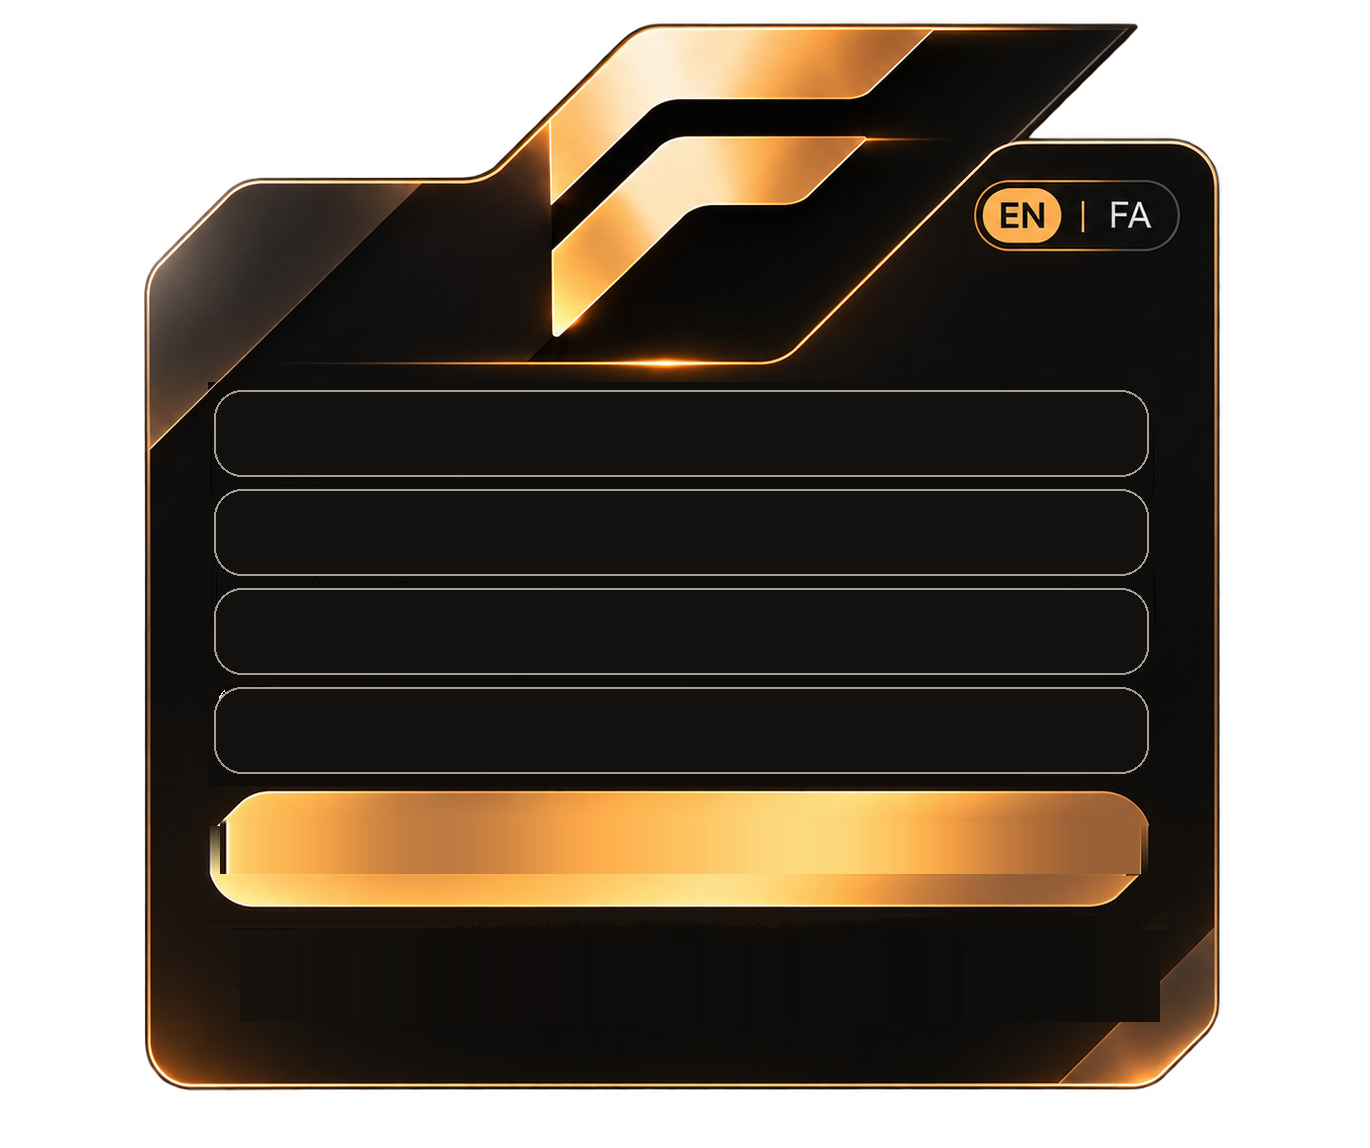
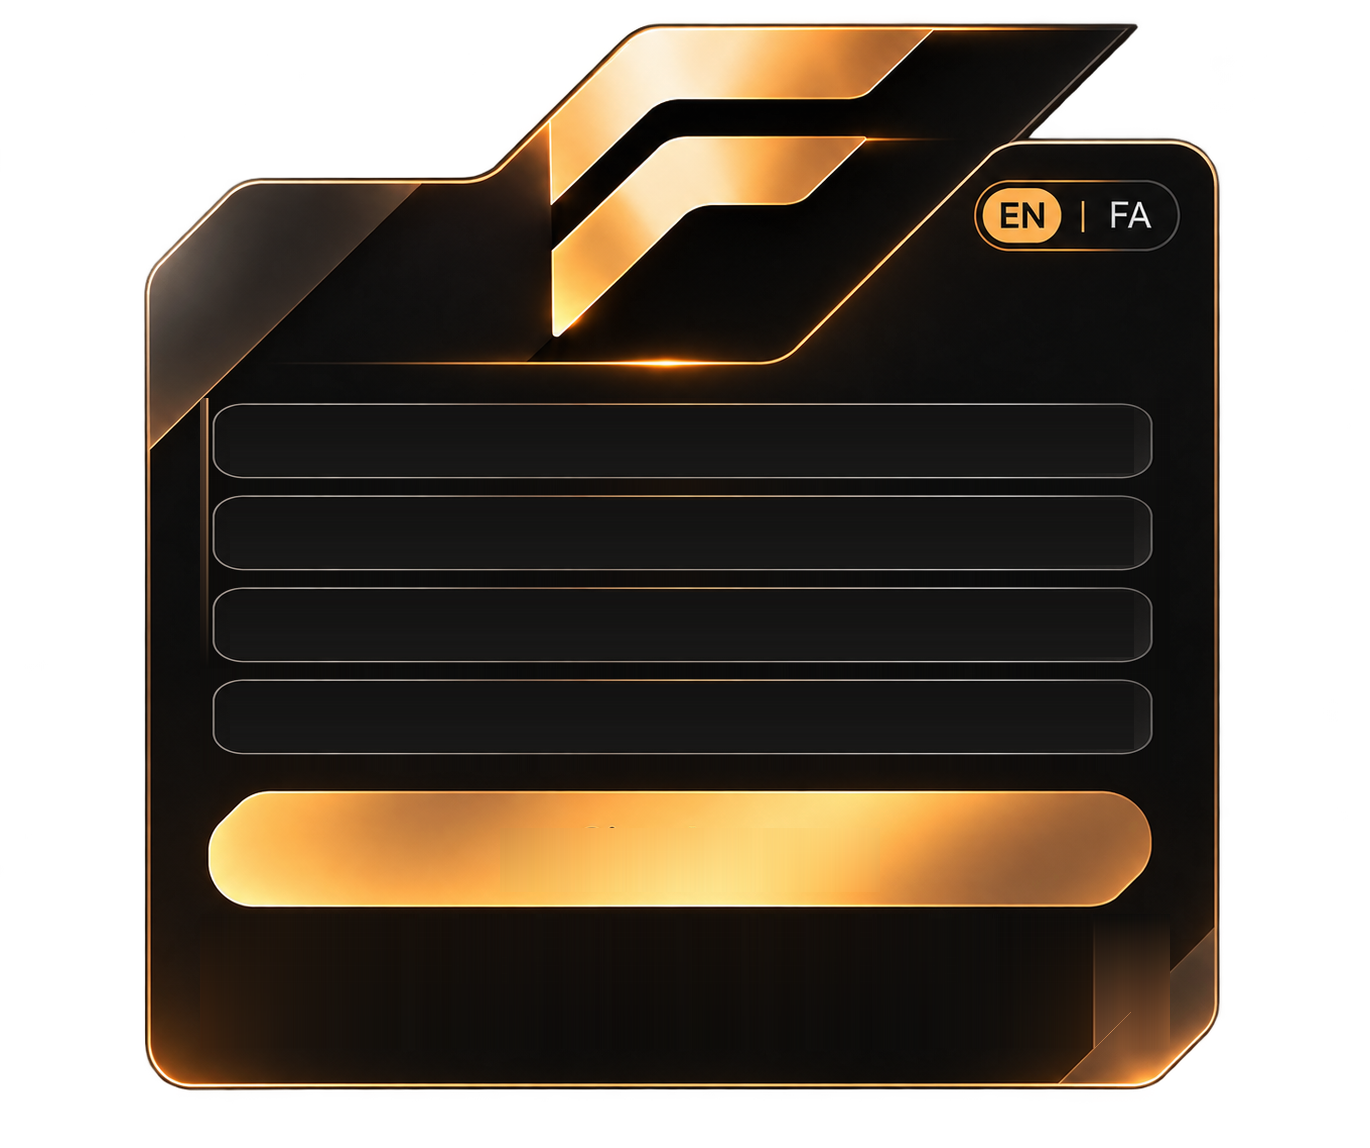
Seat the create-account fields in the sign-in wells.
The four inputs sit in separate wells taken from the sign-in plate, with the gold button left clear.

diff --git a/src/features/auth/ForgeLoginPicture.tsx b/src/features/auth/ForgeLoginPicture.tsx
@@ -652,12 +652,12 @@ function SignupCard({
 }) {
   const hole = {
     ...holeInput,
-    left: "16.06%",
-    width: "67.3%",
-    height: "6.45%",
-    borderRadius: "1.55cqw",
-    padding: "0 1.4cqw",
-    background: "#121110",
+    left: "17.08%",
+    width: "65.55%",
+    height: "4.70%",
+    borderRadius: "1.8cqw",
+    padding: "0 1.2cqw",
+    background: "transparent",
   };
   return (
     <Box dir="ltr" sx={{ position: "relative", width: "100%", containerType: "inline-size" }}>
@@ -706,15 +706,15 @@ function SignupCard({
           </Box>
         ))}
       </Box>
-      <Box component="input" aria-label={t.name} placeholder={t.name} value={displayName} onChange={(event) => onDisplayName(event.target.value)} dir="ltr" sx={{ ...hole, top: "34.49%" }} />
-      <Box component="input" aria-label={t.email} placeholder={t.email} type="email" required value={username} autoComplete="username" onChange={(event) => onUsername(event.target.value)} dir="ltr" sx={{ ...hole, top: "43.12%" }} />
-      <Box component="input" aria-label={t.password} placeholder={t.password} type="password" required minLength={6} value={password} autoComplete="new-password" onChange={(event) => onPassword(event.target.value)} dir="ltr" sx={{ ...hole, top: "51.74%" }} />
-      <Box component="input" aria-label={t.confirm} placeholder={t.confirm} type="password" required minLength={6} value={confirm} autoComplete="new-password" onChange={(event) => onConfirm(event.target.value)} dir="ltr" sx={{ ...hole, top: "60.37%" }} />
+      <Box component="input" aria-label={t.name} placeholder={t.name} value={displayName} onChange={(event) => onDisplayName(event.target.value)} dir="ltr" sx={{ ...hole, top: "36.06%" }} />
+      <Box component="input" aria-label={t.email} placeholder={t.email} type="email" required value={username} autoComplete="username" onChange={(event) => onUsername(event.target.value)} dir="ltr" sx={{ ...hole, top: "44.08%" }} />
+      <Box component="input" aria-label={t.password} placeholder={t.password} type="password" required minLength={6} value={password} autoComplete="new-password" onChange={(event) => onPassword(event.target.value)} dir="ltr" sx={{ ...hole, top: "52.09%" }} />
+      <Box component="input" aria-label={t.confirm} placeholder={t.confirm} type="password" required minLength={6} value={confirm} autoComplete="new-password" onChange={(event) => onConfirm(event.target.value)} dir="ltr" sx={{ ...hole, top: "60.10%" }} />
       {error ? (
-        <Box sx={{ position: "absolute", left: "16%", width: "68%", top: "80.4%", color: "#ffb4b4", fontSize: "2cqw", textAlign: "center", lineHeight: 1.2 }}>{error}</Box>
+        <Box sx={{ position: "absolute", left: "16%", width: "68%", top: "66.2%", color: "#ffb4b4", fontSize: "1.8cqw", textAlign: "center", lineHeight: 1.1 }}>{error}</Box>
       ) : null}
       <Box component="button" type="submit" disabled={busy} sx={{
-        ...hitStyle({ left: "15.33%", top: "68.9%", width: "68.61%", height: "10.02%" }),
+        ...hitStyle({ left: "16.2%", top: "68.8%", width: "67.5%", height: "10.2%" }),
         cursor: busy ? "progress" : "pointer",
         color: "#1a1208",
         fontWeight: 800,
@@ -725,7 +725,7 @@ function SignupCard({
         position: "absolute",
         left: "12%",
         width: "76%",
-        top: "83.6%",
+        top: "82.6%",
         height: "5%",
         display: "flex",
         alignItems: "center",
@@ -941,7 +941,6 @@ export function ForgeLoginPicture({
             display: "flex",
             justifyContent: "center",
             alignItems: "flex-start",
-            px: signup ? 2 : 0,
           }}>
             <Box sx={{ width: "116%" }}>
               {card}
